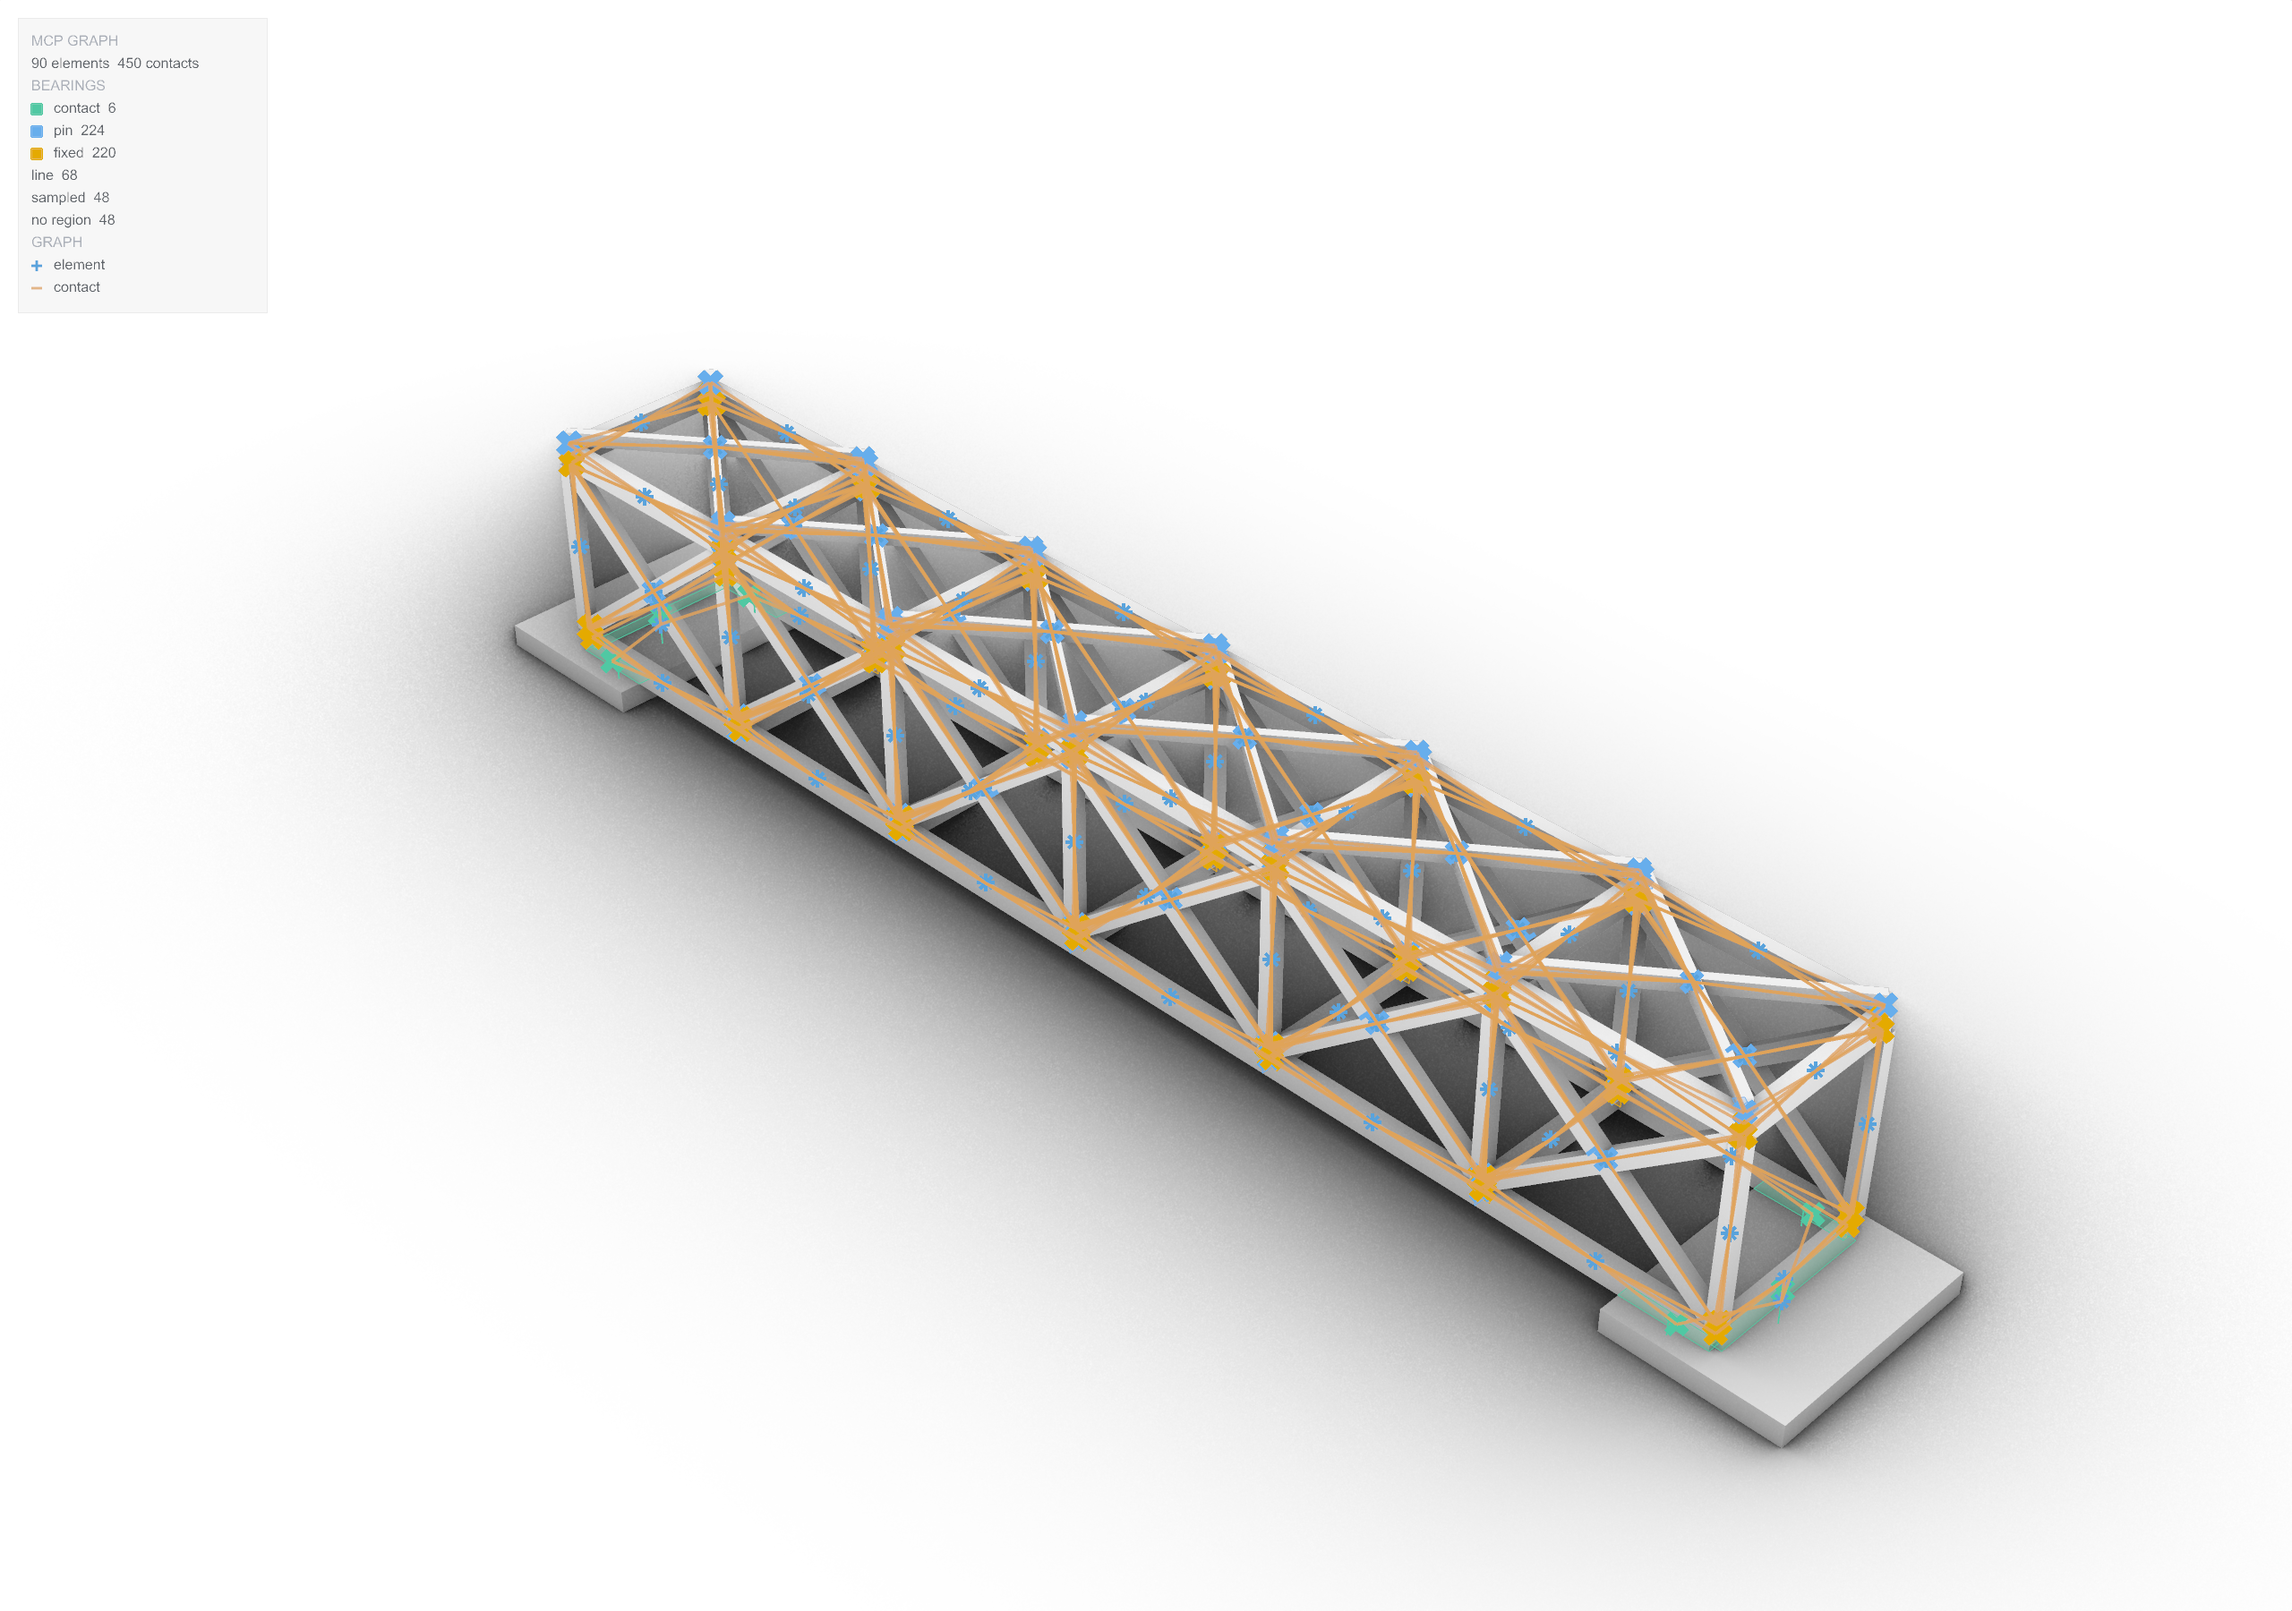
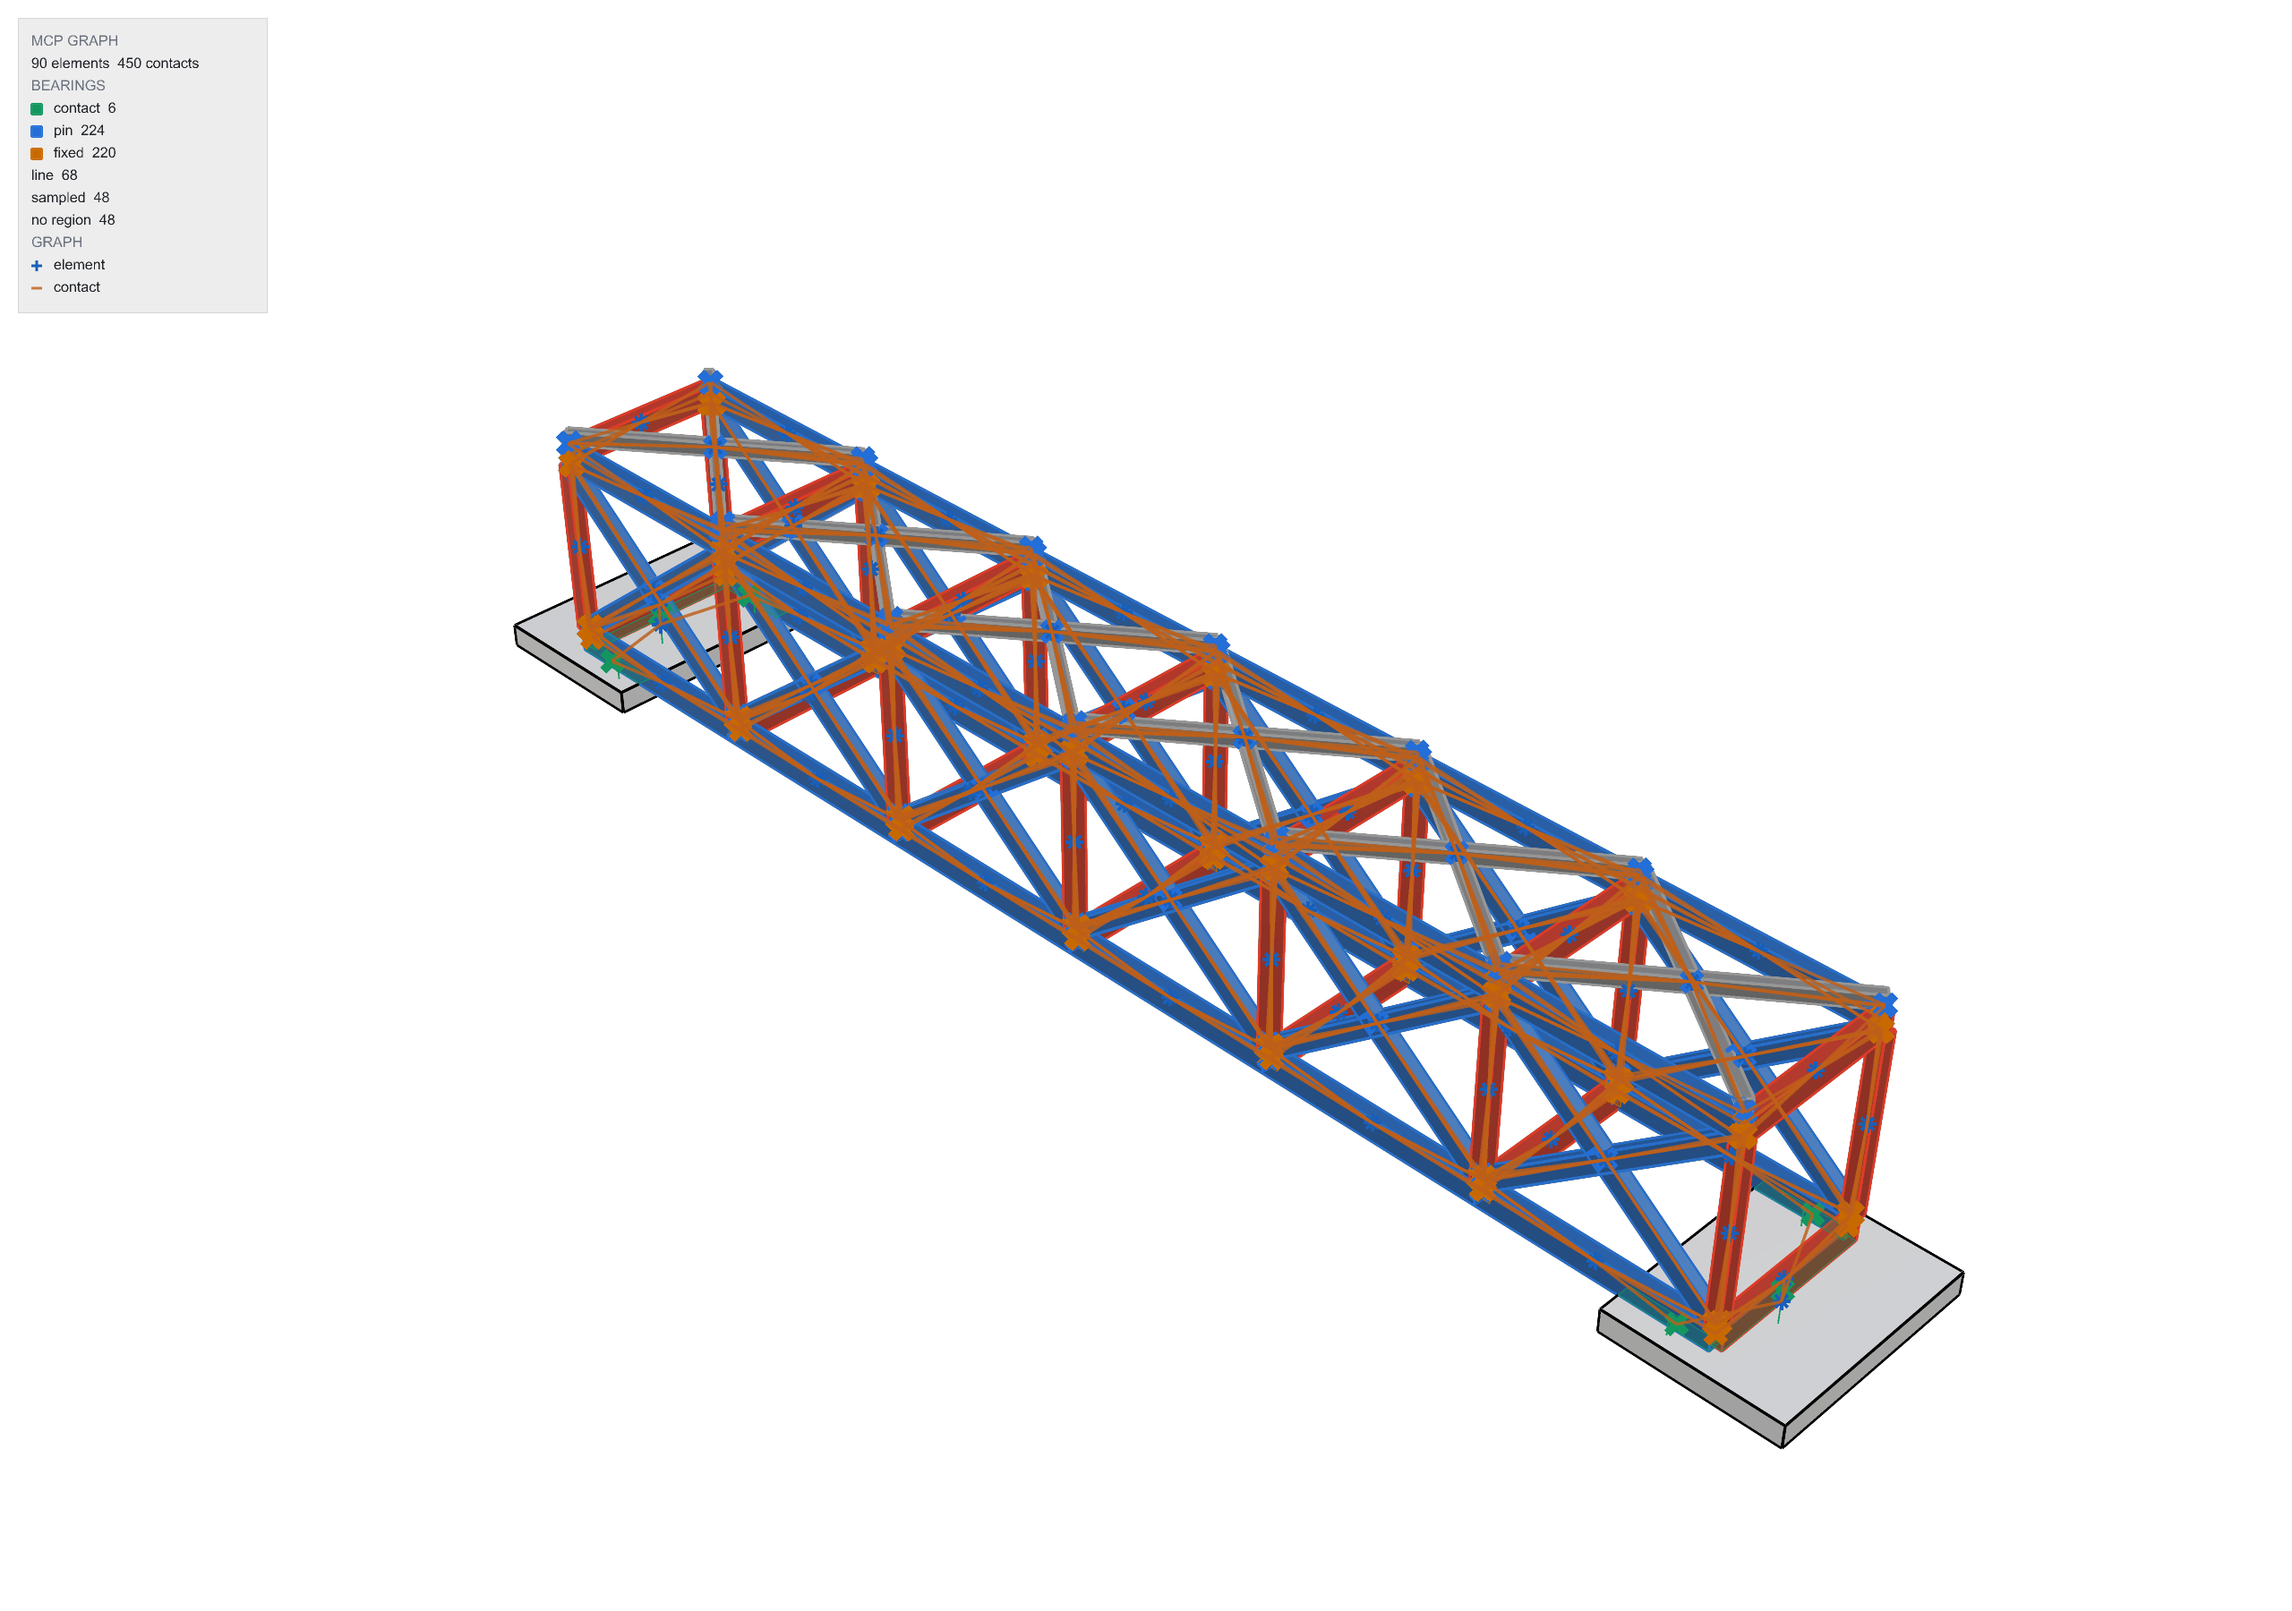
fix: a capture waits for the screen to draw the mode it asked for, and for meshing to settle
Two timing faults made the first capture after open_file come out wireframe.
ViewCapture draws with the state the on-screen pipeline last drew with, so a
display-mode switch followed at once by a capture returned the previous mode;
and Rhino 8 meshes a freshly opened file for the display on its own clock,
ignoring the render meshes the warm-up had already built. CaptureView now pumps
the event loop until PostDrawObjects fires on screen in the requested mode
(1.5 s cap), then takes small probe captures 400 ms apart until two agree
(3 s cap). 24/24 on three demo files.

The guide shoots Shaded again, the display mode the user reads the model in;
images regenerated.

Changed region(s): [[0.1562, 0.2178, 0.9375, 0.9333], [0.0, 0.0311, 0.0625, 0.1556]]

diff --git a/rhino_mcp_plugin/Functions/CaptureView.cs b/rhino_mcp_plugin/Functions/CaptureView.cs
@@ -128,12 +128,8 @@ namespace RhinoMCPModPlugin.Functions
                     viewport.ZoomBoundingBox(fitBox);
                 }
 
-                viewport.DisplayMode = displayMode;
-
                 // A shaded mode draws render meshes, and Rhino builds them lazily on the
-                // first draw. A capture taken before that draw has finished shows every solid
-                // as wireframe - the first capture after a file is opened, reliably. Build
-                // them here, then draw once, so the capture sees the meshed model.
+                // first draw. Build them here so the capture sees the meshed model.
                 foreach (var rhinoObject in doc.Objects)
                 {
                     if (rhinoObject.Geometry is Brep or Extrusion &&
@@ -142,8 +138,20 @@ namespace RhinoMCPModPlugin.Functions
                         rhinoObject.CreateMeshes(MeshType.Render, doc.GetCurrentMeshingParameters(), false);
                     }
                 }
-                doc.Views.Redraw();
-                RhinoApp.Wait();
+
+                // ViewCapture draws with the state the on-screen pipeline last drew with.
+                // Switching the viewport's mode here and capturing at once gives an image
+                // in the *previous* mode - a file saved in Wireframe captured as wireframe
+                // about half the time, whatever the redraw calls in between. So after the
+                // switch, pump the event loop until the screen has drawn one frame in the
+                // new mode (offscreen capture frames do not count), bounded in case it
+                // never does - an occluded window, say.
+                bool switchingMode = viewport.DisplayMode?.Id != displayMode.Id;
+                viewport.DisplayMode = displayMode;
+                if (switchingMode)
+                {
+                    WaitForScreenFrame(doc, view, displayMode);
+                }
 
                 bool drawGrid = parameters["draw_grid"]?.ToObject<bool>() ?? false;
                 bool drawAxes = parameters["draw_axes"]?.ToObject<bool>() ?? false;
@@ -152,6 +160,7 @@ namespace RhinoMCPModPlugin.Functions
                 {
                     return new JObject { ["error"] = $"Unsupported background '{background}'; use viewport, white or transparent" };
                 }
+                WaitForStableFrame(view, background != "viewport");
 
                 // ViewCapture rather than CaptureToBitmap: it can drop the display mode's
                 // background, and it scales screen-space items - the graph readout, point
@@ -247,6 +256,78 @@ namespace RhinoMCPModPlugin.Functions
                     doc.Views.Redraw();
                 }
             }
+        }
+
+        private static void WaitForScreenFrame(RhinoDoc doc, RhinoView view, DisplayModeDescription mode)
+        {
+            bool drawn = false;
+            void OnPostDraw(object sender, DrawEventArgs e)
+            {
+                if (e.Display.IsInViewCapture || e.Display.IsPrinting) return;
+                if (e.Viewport?.Id != view.ActiveViewport.Id) return;
+                if (e.Viewport.DisplayMode?.Id == mode.Id) drawn = true;
+            }
+
+            DisplayPipeline.PostDrawObjects += OnPostDraw;
+            try
+            {
+                view.Redraw();
+                var clock = System.Diagnostics.Stopwatch.StartNew();
+                while (!drawn && clock.ElapsedMilliseconds < 1500)
+                {
+                    RhinoApp.Wait();
+                    if (drawn) break;
+                    System.Threading.Thread.Sleep(20);
+                }
+                if (!drawn)
+                {
+                    RhinoApp.WriteLine("capture_view: no on-screen frame in {0} within 1.5 s; capturing anyway", mode.EnglishName);
+                }
+            }
+            finally
+            {
+                DisplayPipeline.PostDrawObjects -= OnPostDraw;
+            }
+        }
+
+        // Rhino 8 meshes a freshly opened file for the display on its own clock: a
+        // capture within a second of the open draws every solid as wireframe, even after
+        // the objects have render meshes. Nothing in RhinoCommon says when it is done, so
+        // take small captures 400 ms apart until two agree, bounded at 3 s.
+        private static void WaitForStableFrame(RhinoView view, bool transparent)
+        {
+            byte[] Snapshot()
+            {
+                var probe = new ViewCapture
+                {
+                    Width = 160, Height = 120, ScaleScreenItems = false,
+                    DrawGrid = false, DrawAxes = false, DrawGridAxes = false,
+                    TransparentBackground = transparent, Preview = false
+                };
+                using var bitmap = probe.CaptureToBitmap(view);
+                if (bitmap == null) return Array.Empty<byte>();
+                using var stream = new MemoryStream();
+#pragma warning disable CA1416
+                bitmap.Save(stream, ImageFormat.Png);
+#pragma warning restore CA1416
+                return stream.ToArray();
+            }
+
+            var clock = System.Diagnostics.Stopwatch.StartNew();
+            var previous = Snapshot();
+            while (clock.ElapsedMilliseconds < 3000)
+            {
+                var until = clock.ElapsedMilliseconds + 400;
+                while (clock.ElapsedMilliseconds < until)
+                {
+                    RhinoApp.Wait();
+                    System.Threading.Thread.Sleep(20);
+                }
+                var current = Snapshot();
+                if (current.Length > 0 && current.AsSpan().SequenceEqual(previous)) return;
+                previous = current;
+            }
+            RhinoApp.WriteLine("capture_view: display still changing after 3 s; capturing anyway");
         }
 
         private static bool TryResolveCaptureSize(JObject parameters, out int width, out int height, out string error)

diff --git a/scripts/dev/build_guide_images.py b/scripts/dev/build_guide_images.py
@@ -126,12 +126,10 @@ def obb_off(session: Session) -> None:
 
 
 # White background and a print-size capture: the readout and markers scale with the size,
-# and the figure is read at a fraction of it on the page. Arctic rather than Shaded: Shaded
-# fills objects with its own material - white, in the default Mac profile - which on a white
-# background leaves only the edges, while Arctic shades white surfaces with ambient occlusion
-# and reads on white.
+# and the figure is read at a fraction of it on the page. Shaded with the display mode's
+# own object colour; the plugin drops the mode's background and flattens onto white.
 SHADED_HIGH = {
-    "all_visible": True, "display_mode": "Arctic", "resolution": "print",
+    "all_visible": True, "display_mode": "Shaded", "resolution": "print",
     "background": "white", "padding": 1.05,
 }
 
